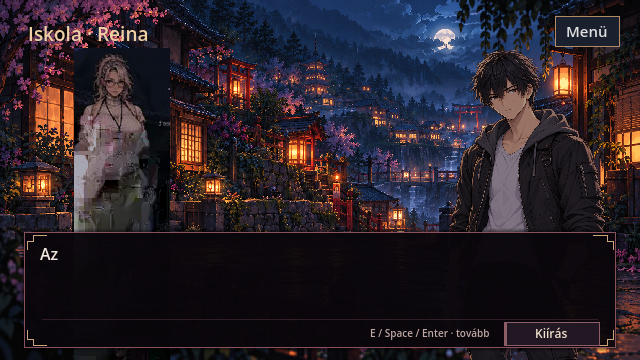
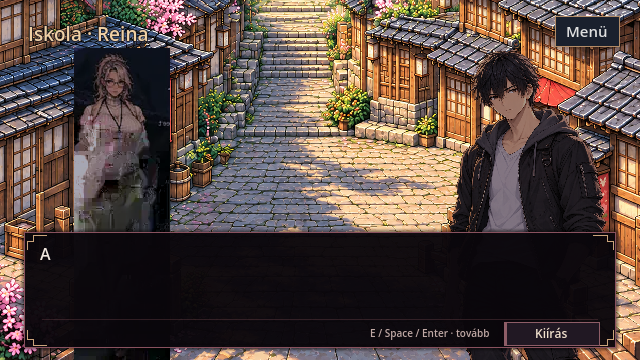
Add reference-based afternoon plates and recover approved Renka reference

diff --git a/docs/VILLAGE_TOUR_REVIEW.md b/docs/VILLAGE_TOUR_REVIEW.md
@@ -55,8 +55,9 @@ nem ismételhetők; Kuroe személyes találkozása és Oto kiléte továbbra sem
 
 ### Még hiányzó production assetek
 
-- Nappali/délutáni bejárható utca és híd: jelenleg az engedélyezett éjszakai
-  REVIEW plate-ek biztosítják a már bemért mozgássávot és takarást.
+- Az utca és híd már külön délutáni REVIEW változatot használ, az eredeti
+  képek elrendezéséből és bemért mozgássávjából. A háttér és a korlátkivágatok
+  ugyanarra a napszakváltozatra váltanak. A nyitány eredeti éjszakai képei megmaradnak.
 - Külön iskola, bolt, fogadó, műhely, piac, patakpart, zenei ház és szentélyút
   hátterek, saját járhatósági és takarási adatokkal.
 - Reina nagy felbontású jóváhagyott VN-kivágata: a repo kis felbontású preview-ja
@@ -68,6 +69,17 @@ nem ismételhetők; Kuroe személyes találkozása és Oto kiléte továbbra sem
 
 A Library-masterek binárisai ebben a munkakörnyezetben nem hozzáférhetők.
 Authority: `reference/characters/manifest.json`; minden LOCKED státusz megmarad.
+
+Új képek: `assets/village_day1/`; a teljes prompt és forráskép párosítása a
+`generation_manifest.json` fájlban. Beépített image_gen, két külön lighting-weather
+szerkesztés. Ezek nem nyolc új helyszíntervként, hanem a meglévő utca és híd
+napszakváltozataként kerültek be.
+
+Hozzáférés-ellenőrzés: a GitHub friss main ágán nincs Sora/Oto FINAL képfájl;
+az „Emlékmentés folytatása” chat ezt szövegesen is rögzíti. A „Folytatás írása”
+chatből a rendelkezésre álló olvasó csak feloldatlan képhivatkozásokat ad vissza,
+mellékletet nem. A böngészős Libraryhez nincs aktív bejelentkezés. A teljes
+képi integráció ezért továbbra is a tényleges jóváhagyott fájlátadásra vár.
 
 ### Ellenőrzés
 

diff --git a/reference/characters/README.md b/reference/characters/README.md
@@ -5,6 +5,11 @@
 
 This folder is the stable discovery point for the current priority character visual authorities.
 
+2026-10-12 local recovery: the original approved Renka image is now included
+as `RENKA_CHARACTER_DESIGN_V1_REFERENCE.png`, recovered unchanged from the
+owner-supplied September 27 visual ZIP. Its SHA-256 is in `manifest.json`.
+This is the earlier reference, not the rejected later redesign.
+
 The high-resolution master sheets are stored in the ChatGPT Library. Work/Codex should use the exact Library path listed in `manifest.json` when available. If the binary cannot be opened, use the linked repo production spec as fallback and report the missing reference instead of creating a replacement design.
 
 Rules:
